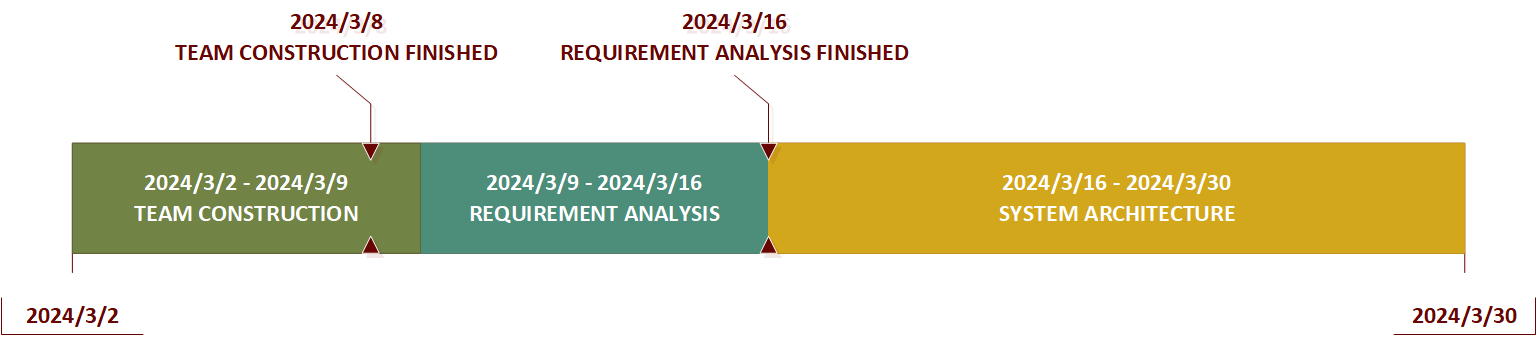
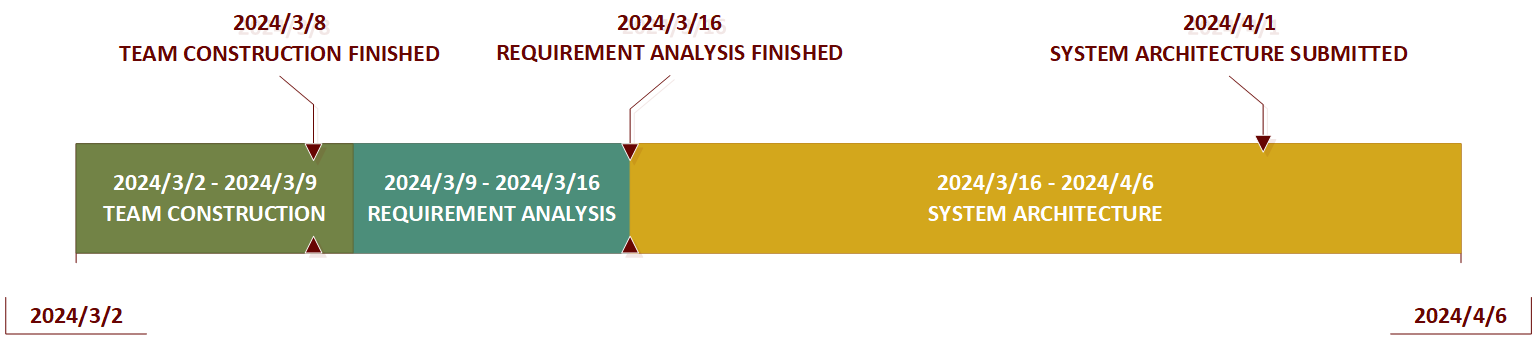
upd

diff --git a/README.md b/README.md
@@ -8,6 +8,10 @@ Our team's focus is on the **web application**, while we also have our partners 
 
 Stay tuned for updates, announcements, and exciting news about our projects!
 
+### 20240326 We have a meeting with other PMs!
+
+We have a short wehcat meeting with other PMs in which we decided to merge our result by submitting class diagrams from each group. The deadline is 1st, April. Check our schedules [**here**](./CALENDER.md).
+
 ### 20240324 We integrated a Gantt chart into our project calendar! 
 
 We integrated a Gantt chart into our project calendar to offer a comprehensive view of our current progress and upcoming tasks. Hopefully it will always be put on the top of [**CALENDER.md**](./CALENDER.md).
